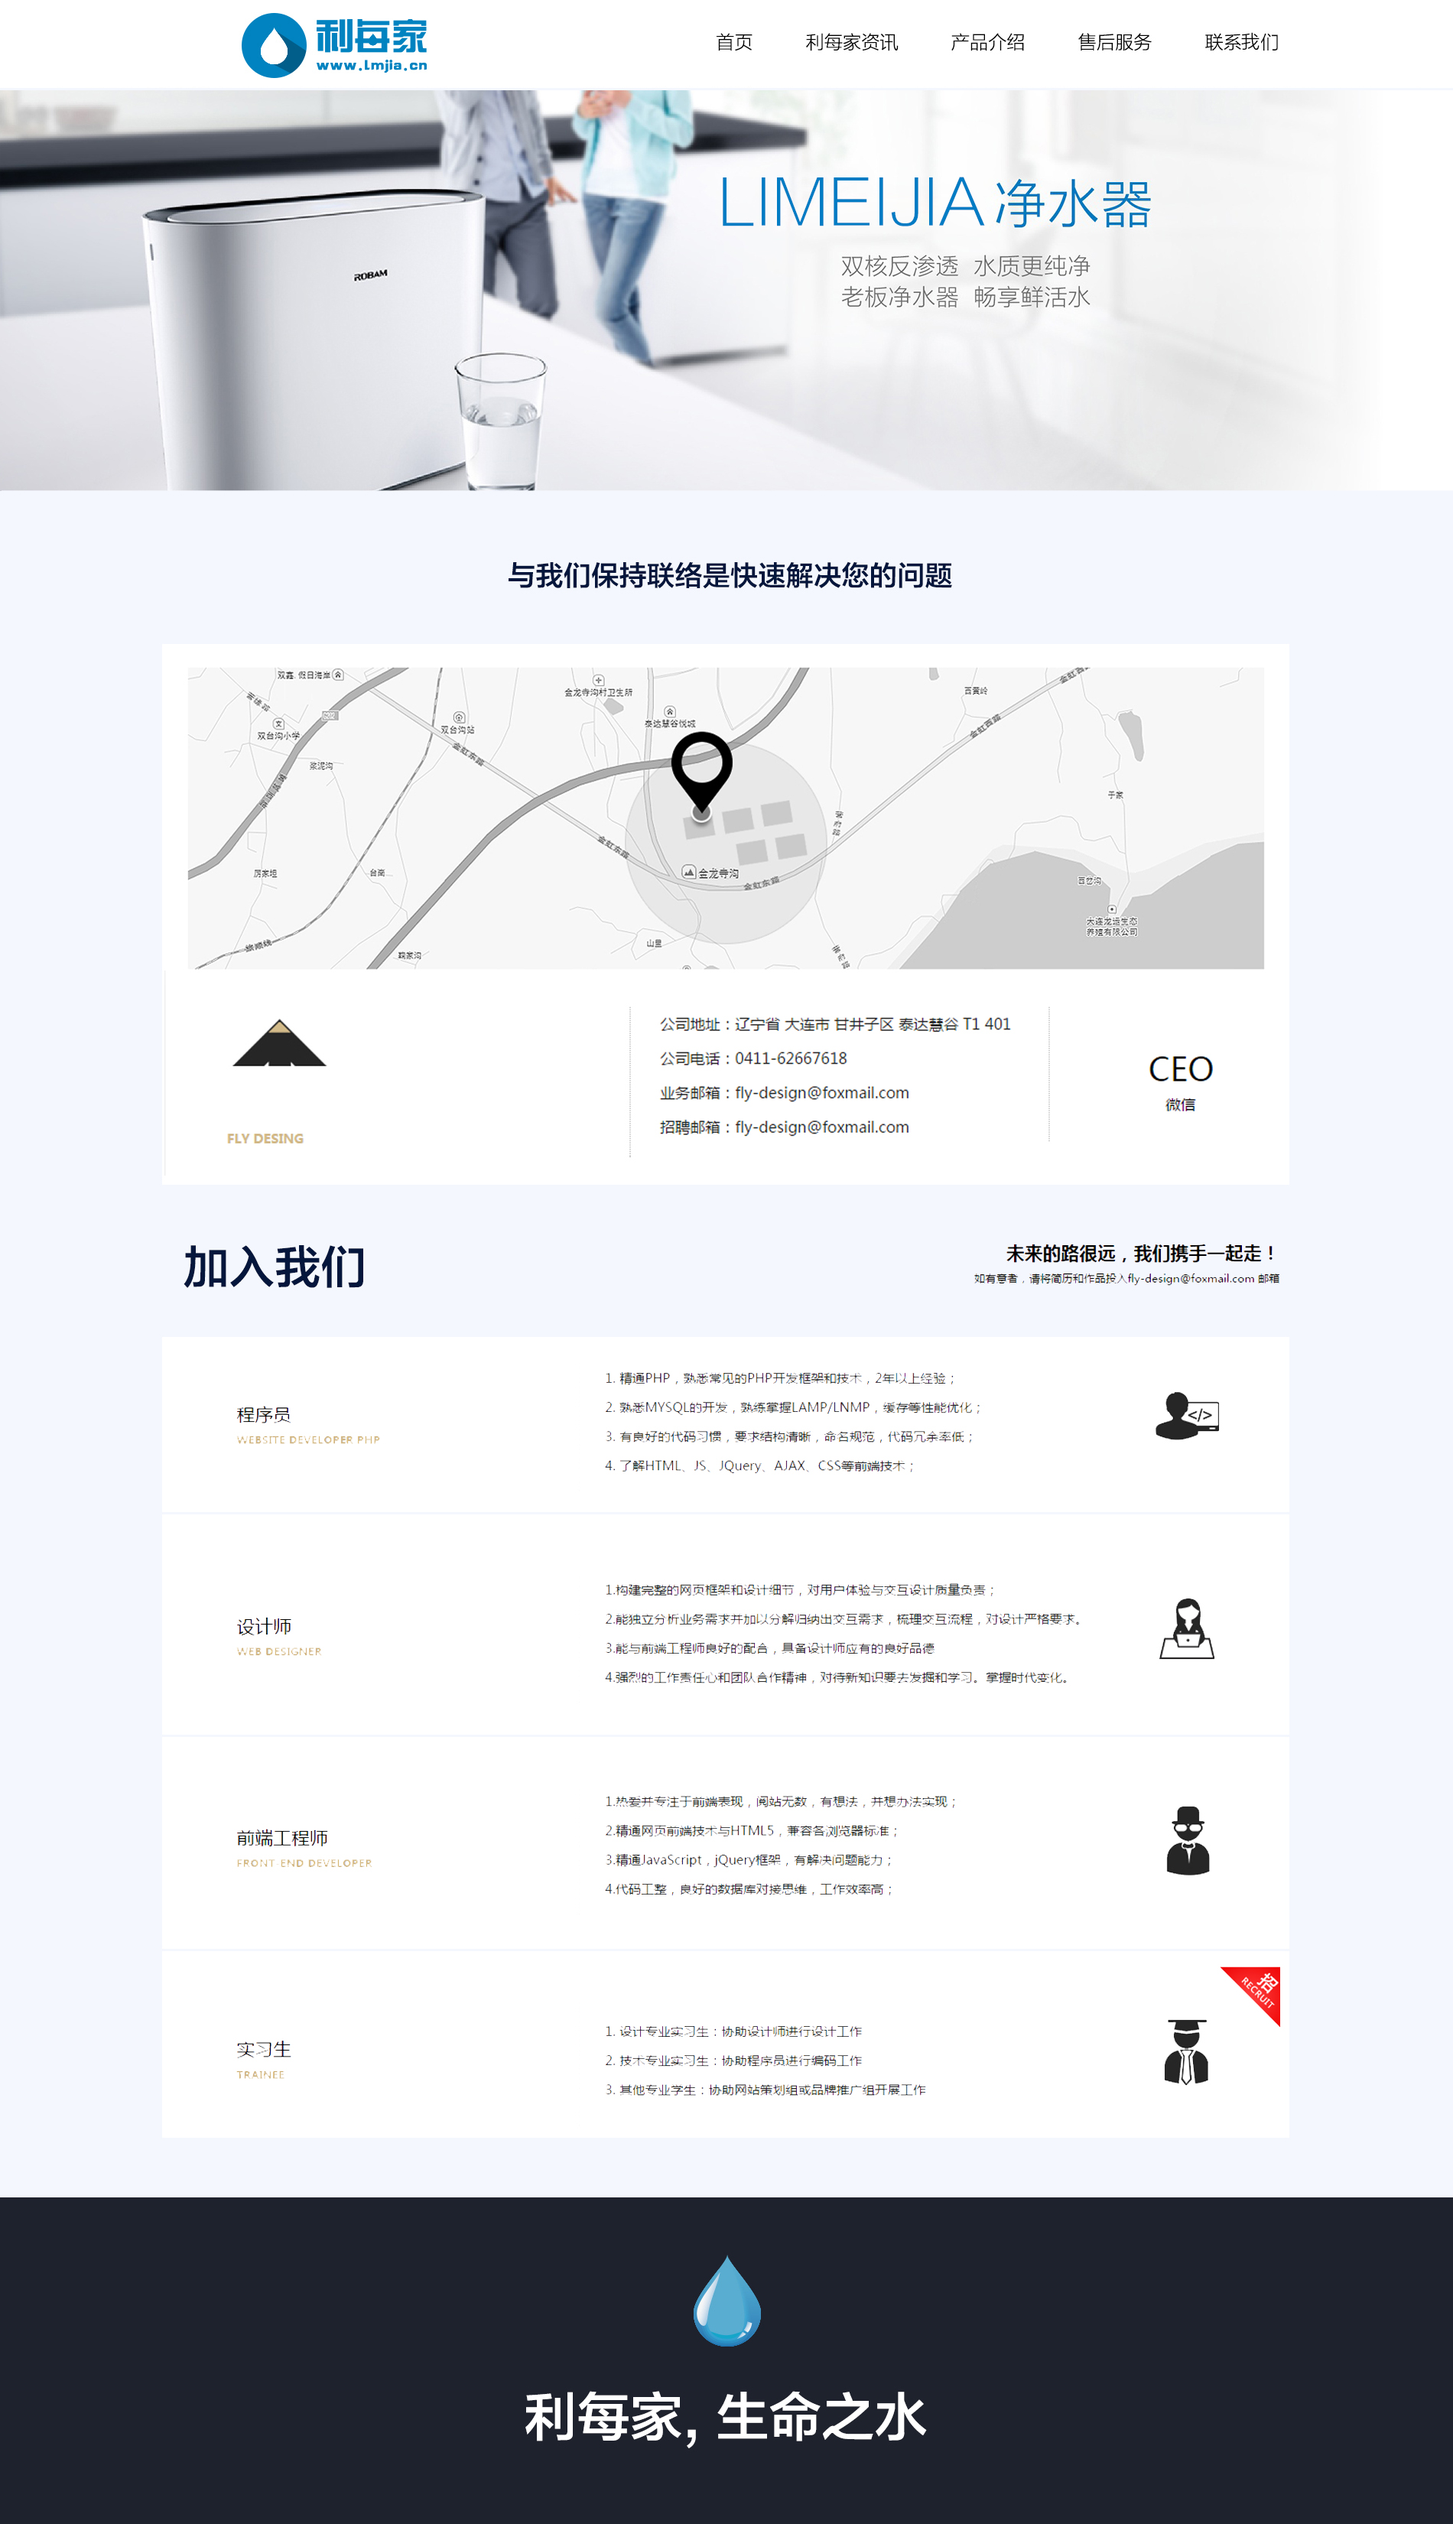
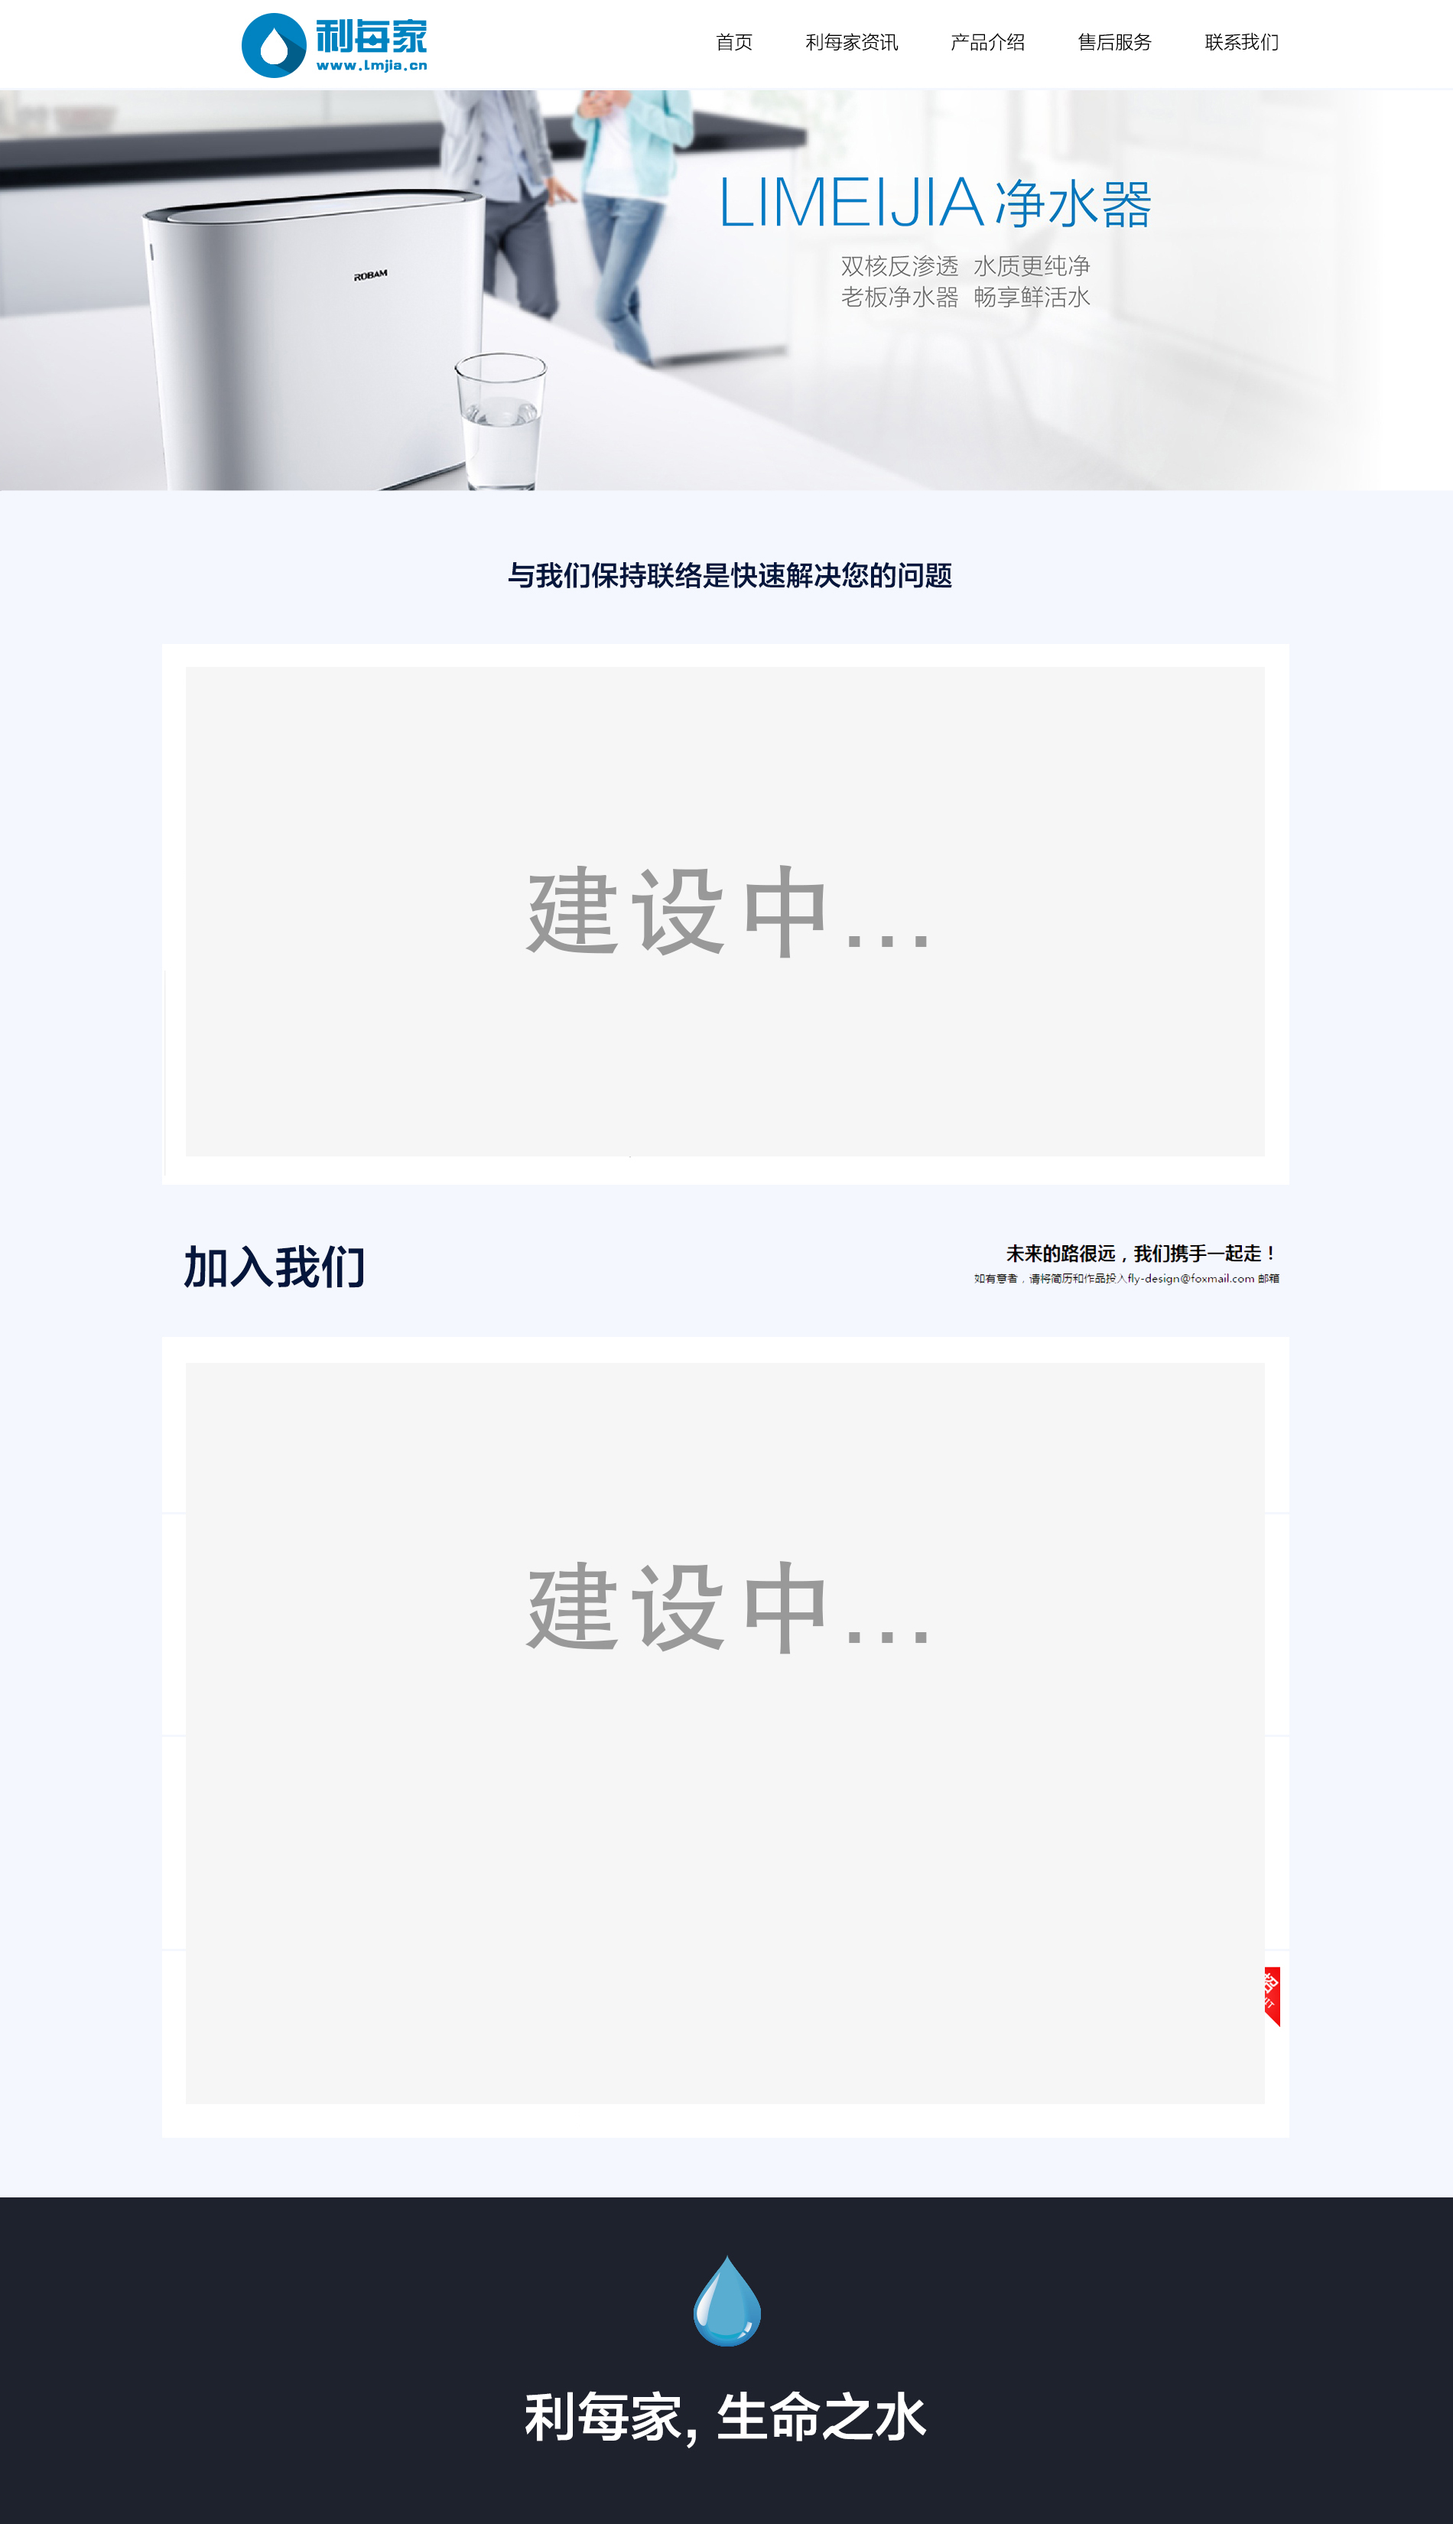
更新

diff --git a/lmjia/about.html b/lmjia/about.html
@@ -1,0 +1,12 @@
+<!DOCTYPE html>
+<html lang="en">
+<head>
+    <meta charset="UTF-8">
+    <title>联系我们网站建设中</title>
+</head>
+<body>
+<div style=" text-align: center; ">
+    <p><img src="联系我们.jpg" style=" width: 100%"/></p>
+</div>
+</body>
+</html>

diff --git a/lmjia/cp1.html b/lmjia/cp1.html
@@ -1,0 +1,12 @@
+<!DOCTYPE html>
+<html lang="en">
+<head>
+    <meta charset="UTF-8">
+    <title>产品描述建设中</title>
+</head>
+<body>
+<div style=" text-align: center; ">
+    <p><img src="产品介绍1.jpg" style="width: 100%"/></p>
+</div>
+</body>
+</html>

diff --git a/lmjia/cp2.html b/lmjia/cp2.html
@@ -1,0 +1,12 @@
+<!DOCTYPE html>
+<html lang="en">
+<head>
+    <meta charset="UTF-8">
+    <title>产品描述建设中</title>
+</head>
+<body>
+<div style=" text-align: center; ">
+    <p><img src="产品介绍2.jpg" style="width: 100%"/></p>
+</div>
+</body>
+</html>

diff --git a/lmjia/new.html b/lmjia/new.html
@@ -1,0 +1,12 @@
+<!DOCTYPE html>
+<html lang="en">
+<head>
+    <meta charset="UTF-8">
+    <title>资讯建设中</title>
+</head>
+<body>
+<div style=" text-align: center; ">
+    <p><img src="产品介绍1.jpg" style="width: 100%"/></p>
+</div>
+</body>
+</html>

diff --git a/lmjia/strat.html b/lmjia/strat.html
@@ -1,0 +1,12 @@
+<!DOCTYPE html>
+<html lang="en">
+<head>
+    <meta charset="UTF-8">
+    <title>首页网站建设中</title>
+</head>
+<body>
+<div style=" text-align: center; ">
+    <p><img src="首页.jpg" style="width: 100%"/></p>
+</div>
+</body>
+</html>

diff --git a/README.md b/README.md
@@ -1,1 +1,9 @@
-# luoaiffff
+# update readme	15 days ago
+index.html	mint-ui => muse-ui material design theme , fix champion detail flex bug	a month ago
+package.json	remove vue-svg-icon	13 days ago
+ README.md
+Vue2.0版英雄联盟助手
+
+vuejs League of Legends project
+
+项目源码 在线地址 (该地址目标暂时有问题，请直接下载项目运行)
